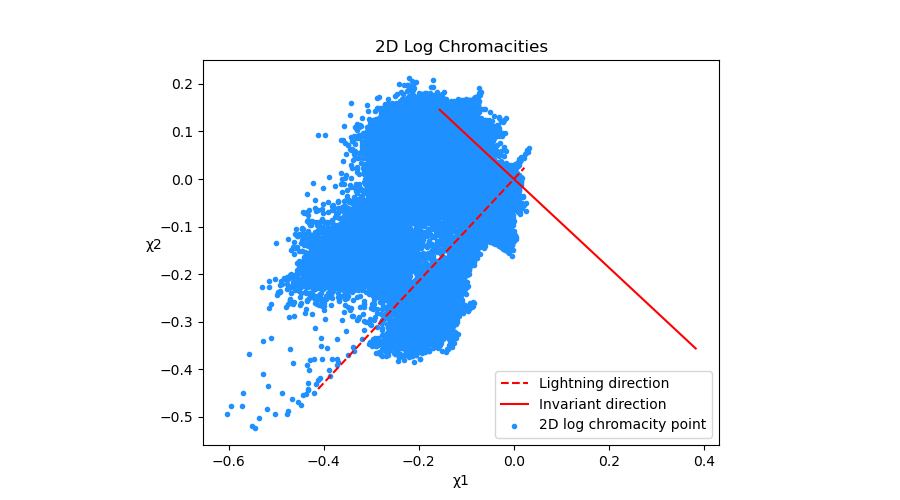
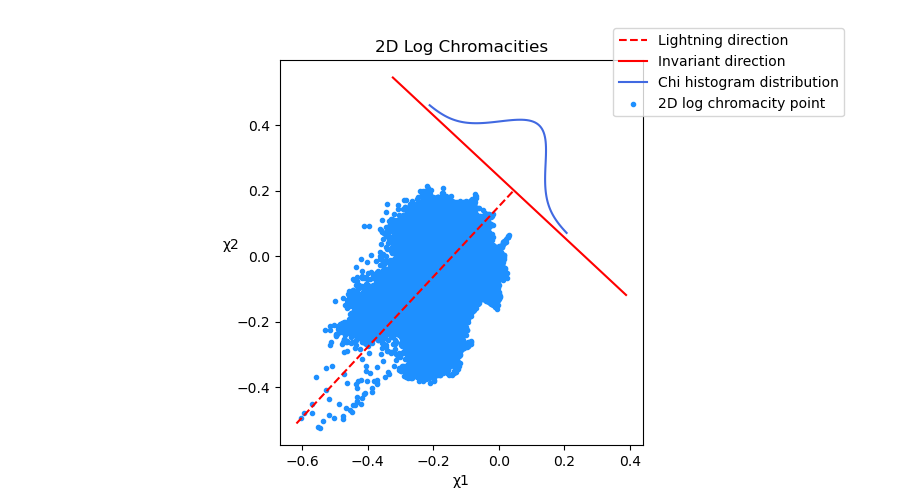
[Shadow-removal] Draw fantastic rotated Gaussian

diff --git a/samples/Shadow-removal/_experimental.py b/samples/Shadow-removal/_experimental.py
@@ -1,8 +1,8 @@
+import math
+import argparse
 import cv2 as cv
 import numpy as np
 from matplotlib import pyplot as plt
-import argparse
-import math
 
 U = np.array([ [1/math.sqrt(2), -1/math.sqrt(2), 0], [1/math.sqrt(6), 1/math.sqrt(6), -2/math.sqrt(6)] ]) # orthogonal matrix
 
@@ -64,6 +64,37 @@ def solveProjection(img, Rho, nangles = 181):
     minEntropyAngle = radians[minEntropyIdx]
     return minEntropy, minEntropyAngle, Entropies
 
+def L1(img, Rho, minEntropyAngle):
+    N = img.shape[0] * img.shape[1]
+    Chi = projectOntoPlane(Rho, U)
+    e = np.array([-1 * math.sin(minEntropyAngle), math.cos(minEntropyAngle)])
+    eT = np.array([np.cos(minEntropyAngle), np.sin(minEntropyAngle)])
+    Ptheta = np.outer(eT, eT)
+    Chitheta = Chi @ Ptheta.T
+    I = Chi @ e
+    Itheta = Chitheta @ e
+
+    IMostBrightest = np.sort( I.reshape(I.shape[0] * I.shape[1]) )
+    IMostBrightest = IMostBrightest[IMostBrightest.size - int(0.01*math.ceil(N)) : IMostBrightest.size]
+    IMostBrightestTheta = np.sort( Itheta.reshape(Itheta.shape[0] * Itheta.shape[1]) )
+    IMostBrightestTheta = IMostBrightestTheta[IMostBrightestTheta.size - int(0.01*math.ceil(N)) : IMostBrightestTheta.size]
+    ChiExtralight = (np.median(IMostBrightest) - np.median(IMostBrightestTheta)) * e
+    Chitheta += ChiExtralight
+
+    Rhoti = Chitheta @ U
+    cti = np.exp(Rhoti)
+    ctiSum = np.sum(cti, axis = 2)
+    ctiSum = ctiSum.reshape(cti.shape[0], cti.shape[1], 1)
+    rti = cti / ctiSum
+
+    # cv.imshow("I1D", cv.normalize(rti, 0, 255, cv.NORM_MINMAX))
+    # cv.waitKey()
+
+    # print(ChiExtralight)
+    # exit();
+    
+
+
 
 if __name__ == "__main__":
     ap = argparse.ArgumentParser()
@@ -78,8 +109,10 @@ if __name__ == "__main__":
     # Infer intrinsic image
     Rho = convertToLogChromacitySpace(img64)
     minEntropy, minEntropyAngle, Entropies = solveProjection(img, Rho, nangles = 181)
-    I1DAngle = minEntropyAngle + np.pi / 2 # I1DAngle = (158.0 * np.pi / 180.0)
-    I1D = getProjectedImage(Rho, I1DAngle)
+    invariantAngle = minEntropyAngle + np.pi / 2 # invariantAngle = (158.0 * np.pi / 180.0)
+    I1D = getProjectedImage(Rho, invariantAngle)
+
+    L1(img64, Rho, minEntropyAngle)
 
     # Display results
 
@@ -89,8 +122,41 @@ if __name__ == "__main__":
     Chi = projectOntoPlane(Rho, U)
     minX1, maxX1 = np.min(Chi[:,:,0]), np.max(Chi[:,:,0])
     minX2, maxX2 = np.min(Chi[:,:,1]), np.max(Chi[:,:,1])
-    lightnintDirection = [np.linspace(minX1, maxX1, 2) * np.cos(minEntropyAngle), np.linspace(minX1, maxX1, 2) * np.sin(minEntropyAngle)]
-    invatiantDirection = [np.linspace(minX2, maxX2, 2) * np.cos(minEntropyAngle + np.pi / 2), np.linspace(minX2, maxX2, 2) * np.sin(minEntropyAngle + np.pi / 2)]
+    chi1Range = maxX1 - minX1
+    chi2Range = maxX2 - minX2
+    chiCenter = np.array([(maxX1 + minX1) / 2.0, (maxX2 + minX2) / 2.0])
+    chiHypot = np.hypot(chi1Range, chi2Range)
+
+    RotMatx = lambda rad : np.array([[np.cos(rad), -np.sin(rad)], [np.sin(rad), np.cos(rad)]], dtype = np.float32)
+    def Shift(arrayXY, x, y):
+        shiftX, shiftY = np.mean(arrayXY[0]) - x, np.mean(arrayXY[1]) - y
+        arrayXY[0] -= shiftX
+        arrayXY[1] -= shiftY
+
+    lightnintDirection = np.array([[0, chiHypot], [0, 0]])
+    lightnintDirection = RotMatx(minEntropyAngle) @ lightnintDirection
+    Shift(lightnintDirection, chiCenter[0], chiCenter[1])
+    
+    invatiantDirection = np.array([[0, chiHypot], [0, 0]])
+    invatiantDirection = RotMatx(invariantAngle) @ invatiantDirection
+    Shift(invatiantDirection, maxX1, maxX2)
+
+    # Rotated Log Chromacity Gaussian
+    def GaussianPDF(x, mu, var):
+        denom = (2 * np.pi * var)**.5
+        num = np.exp(-(x - mu)**2 / (2 * var))
+        return num / denom
+    I = Chi[:,:,0] * np.cos(minEntropyAngle) + Chi[:,:,1] * np.sin(minEntropyAngle)
+    IMean = np.mean(I)
+    IStd = np.std(I)
+    lbound = IMean + 3.0 * (-IStd)
+    rbound = IMean + 3.0 * (+IStd)
+    GaussXAxis = np.linspace(lbound, rbound, 100)
+    GaussYAxis = GaussianPDF(GaussXAxis, IMean, IStd**2)
+    GaussYAxis /= np.linalg.norm(GaussYAxis)
+    ChiGauss = np.array([[GaussXAxis, GaussYAxis]]).squeeze(0)
+    ChiGauss = RotMatx(invariantAngle + np.pi) @ ChiGauss
+    Shift(ChiGauss, 1.5 * maxX1, 1.5 * maxX2)
 
     # 2D Log Chromacities plot
     figChrom = plt.figure()
@@ -103,7 +169,8 @@ if __name__ == "__main__":
     axChrom.scatter(Chi[:,:,0], Chi[:,:,1], marker = '.', color = 'dodgerblue', label = '2D log chromacity point')
     axChrom.plot(lightnintDirection[0], lightnintDirection[1], 'r--', label = 'Lightning direction')
     axChrom.plot(invatiantDirection[0], invatiantDirection[1], 'r-', label = 'Invariant direction')
-    axChrom.legend()
+    axChrom.plot(ChiGauss[0], ChiGauss[1], color = 'royalblue', label = 'Chi histogram distribution')
+    axChrom.legend(bbox_to_anchor=(0.9, 1.1))
 
     # Entropies plot
     figEntropy = plt.figure()
